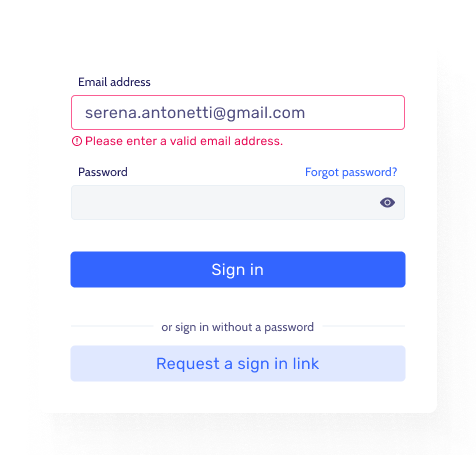
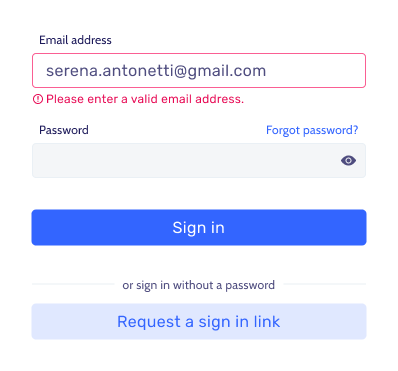
[bugfix] final fixes for framer-motion on Safari + Firefox

diff --git a/src/CaseStudy/sections/Marketing/Pricing/Pricing.tsx b/src/CaseStudy/sections/Marketing/Pricing/Pricing.tsx
@@ -1,4 +1,5 @@
 import { PricingImage } from "CaseStudy/assets/Marketing/Pricing";
+import { ImageWrapper } from "CaseStudy/components/Image";
 import { ContentRowWithVisual, Tips } from "CaseStudy/components";
 
 import "./Pricing.scss";
@@ -15,11 +16,12 @@ const Pricing = () => {
         className="section-pricing"
         title="Pricing plans"
       >
-        <img
-          className="img-pricing"
-          src={PricingImage}
-          alt="Pricing table with two paid subscription and a free option, listing all the features of each."
-        />
+        <ImageWrapper className="img-pricing">
+          <img
+            src={PricingImage}
+            alt="Pricing table with two paid subscription and a free option, listing all the features of each."
+          />
+        </ImageWrapper>
       </ContentRowWithVisual>
       <Tips
         copy={

diff --git a/src/CaseStudy/sections/Marketing/Pricing/Pricing.scss b/src/CaseStudy/sections/Marketing/Pricing/Pricing.scss
@@ -1,23 +1,31 @@
 @import "~styles/modules/mixins.scss";
 
+.section-pricing {
+  --section-padding-top: 10rem;
+  --img-border-radius: var(--border-radius-md);
+
+  position: relative;
+  margin-top: calc(#{var(--container-padding-top)} * 2);
+}
+
 .img-pricing {
+  width: 100%;
+  overflow: hidden;
+  background-color: var(--white);
+  border-radius: var(--img-border-radius);
+  box-shadow: var(--myqr-img-container-shadow);
+
   @include breakpoint(0, 799.98) {
     order: 2;
-    width: 100%;
     max-width: 40rem;
   }
 
   @include breakpoint(800) {
     max-width: calc(#{var(--max-text-width)} * 0.5);
-    max-height: 100vh;
-    width: auto;
+  }
+
+  img {
+    width: 100%;
     height: auto;
   }
-}
-
-.section-pricing {
-  --section-padding-top: 10rem;
-
-  position: relative;
-  margin-top: calc(#{var(--container-padding-top)} * 2);
 }

diff --git a/src/CaseStudy/sections/Accessibility/PrefersReducedMotion/PrefersReducedMotion.scss b/src/CaseStudy/sections/Accessibility/PrefersReducedMotion/PrefersReducedMotion.scss
@@ -8,14 +8,14 @@
   margin: 0 auto;
   gap: var(--grid-gap);
 
-  @include breakpoint(0, 799.98) {
+  @include breakpoint(0, 659.98) {
     --preview-size: 28rem;
     --grid-gap: 3.2rem;
 
     flex-direction: column;
   }
 
-  @include breakpoint(800, 1199.98) {
+  @include breakpoint(660, 1199.98) {
     --preview-size: 28rem;
     --grid-gap: 2.4rem;
   }
@@ -66,7 +66,7 @@
 .accessibility-prefersReducedMotion-preview {
   position: relative;
   width: var(--preview-size);
-  padding-bottom: 100%;
+  height: var(--preview-size);
   background-color: var(--myqr-bg-light);
   border: 4px solid var(--white);
   border-radius: 8px;
@@ -74,7 +74,6 @@
   display: flex;
   align-items: center;
   justify-content: center;
-  padding: 0 0 100% 0;
 
   & > * {
     position: absolute;

diff --git a/src/CaseStudy/sections/Features/ModularItem/ModularItem.scss b/src/CaseStudy/sections/Features/ModularItem/ModularItem.scss
@@ -1,9 +1,13 @@
 $steps: 4;
 
 .img-modularItem {
+  --img-border-radius: var(--border-radius-md);
+
   .imgWrapper {
+    overflow: hidden;
     background-color: var(--myqr-bg-light);
     border-radius: var(--img-border-radius);
+    box-shadow: var(--myqr-img-container-shadow);
     position: relative;
 
     .img-modularItem-choice {
@@ -14,8 +18,6 @@ $steps: 4;
         max-height: 60vh;
         width: auto;
         height: auto;
-        border-radius: 8px;
-        filter: var(--myqr-img-shadow);
       }
 
       &:not(:nth-of-type(1)) {
@@ -24,7 +26,6 @@ $steps: 4;
         height: auto;
         top: 0;
         left: 0;
-        border-radius: 8px;
       }
     }
   }

diff --git a/src/CaseStudy/pages/FeaturesPage/FeaturesPage.tsx b/src/CaseStudy/pages/FeaturesPage/FeaturesPage.tsx
@@ -10,10 +10,10 @@ import { NewFeaturesSections, NewFeaturesListItems } from "CaseStudy/sections";
 import "./FeaturesPage.scss";
 
 export const FeaturesSections = [
-  // {
-  //   el: <NewFeaturesSections.ItemReordering />,
-  //   copy: "Reordering menu items & categories",
-  // },
+  {
+    el: <NewFeaturesSections.ItemReordering />,
+    copy: "Reordering menu items & categories",
+  },
   { el: <NewFeaturesSections.ProductImages />, copy: "Adding product images" },
   {
     el: <NewFeaturesSections.DietaryInformation />,

diff --git a/src/CaseStudy/sections/Accessibility/InformationColor/InformationColor.scss b/src/CaseStudy/sections/Accessibility/InformationColor/InformationColor.scss
@@ -1,6 +1,8 @@
 @import "~styles/modules/mixins.scss";
 
 .accessibility-informationColor-visual {
+  --img-border-radius: var(--border-radius-md);
+
   display: flex;
   flex-direction: column;
   align-items: center;
@@ -13,6 +15,10 @@
 
   .imgWrapper {
     position: relative;
+    overflow: hidden;
+    background-color: var(--white);
+    border-radius: var(--img-border-radius);
+    box-shadow: var(--myqr-img-container-shadow);
 
     @include breakpoint(0, 799.98) {
       max-width: 80%;

diff --git a/src/CaseStudy/sections/Features/DietaryInformation/DietaryInformation.scss b/src/CaseStudy/sections/Features/DietaryInformation/DietaryInformation.scss
@@ -2,12 +2,15 @@
 
 .img-dietaryInformation {
   .imgWrapper {
+    overflow: hidden;
+    background-color: var(--white);
+    border-radius: var(--img-border-radius);
+    box-shadow: var(--myqr-img-container-shadow);
+
     img {
       max-height: 70vh;
       width: auto;
       height: auto;
-      border-radius: var(--img-border-radius);
-      filter: var(--myqr-img-shadow);
 
       @include breakpoint(0, 799.98) {
         max-width: 100%;

diff --git a/src/CaseStudy/sections/Features/ItemReordering/ItemReordering.scss b/src/CaseStudy/sections/Features/ItemReordering/ItemReordering.scss
@@ -1,5 +1,5 @@
 $steps: 6;
-$flex-gap: 8px;
+$flex-gap: 0.8rem;
 
 .img-itemReordering {
   .imgWrapper {
@@ -13,7 +13,9 @@ $flex-gap: 8px;
     width: 100%;
     height: auto;
     transition: all 500ms ease-in-out;
-    filter: var(--myqr-img-shadow);
+    /* TODO: find a way to add a shadow that doesn't 
+    break framer-motion in Safari + Firefox */
+    // filter: var(--myqr-img-shadow);
     will-change: transform;
   }
 

diff --git a/src/CaseStudy/assets/Features/DietaryInformation/index.ts b/src/CaseStudy/assets/Features/DietaryInformation/index.ts
@@ -1,1 +1,1 @@
-export { default as DietaryInformationImage } from "./dietaryInformation.jpg";
+export { default as DietaryInformationImage } from "./dietaryInformation.png";
